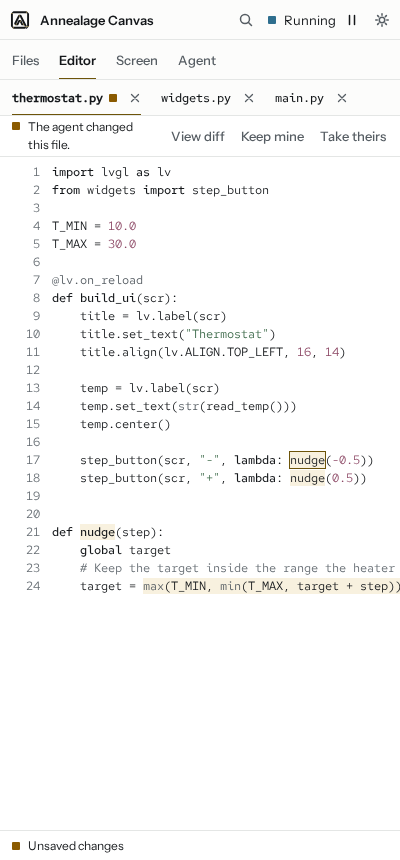
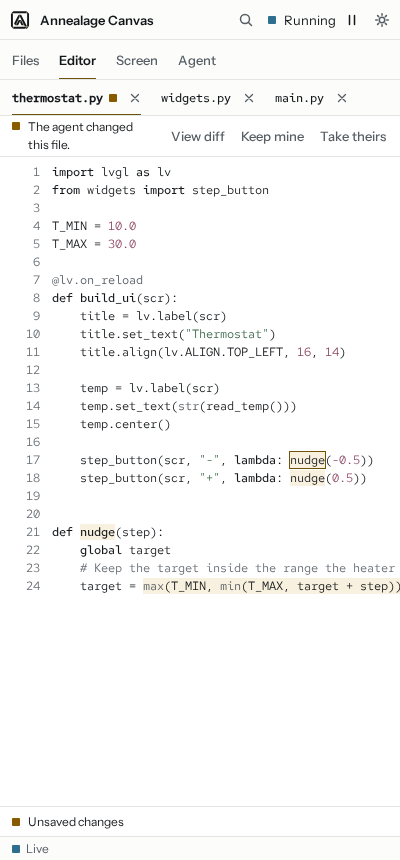
Keep a compact status bar on phones: connection and approval alert

Changed region(s): [[0.03, 0.9372, 0.33, 0.9977]]

diff --git a/theme.css b/theme.css
@@ -1127,7 +1127,8 @@ table.props td { padding: 3px 0; font: 400 var(--fs-small)/var(--lh-ui) var(--mo
 /* -------------------------------------------------------------- status bar */
 /* <footer class="statusbar"><span class="conn" data-state="live">Live</span><span>Agent <b>Ready</b></span>
      <button class="alert">Approval needed: Write</button><span class="push">Build <span class="ok">ok</span> <b>14:32</b></span><span>Cost <b>$0.41</b></span></footer>
-   Labels in the sans, values (<b>) in mono. .push starts the right-hand group. */
+   Labels in the sans, values (<b>) in mono. .push starts the right-hand group.
+   At 900px and below only .conn and .alert remain. */
 .statusbar {
   grid-area: status;
   display: flex; align-items: center; gap: 16px; min-width: 0; height: var(--h-status); padding: 0 12px;
@@ -1854,10 +1855,16 @@ html .pj-modal {
 @media (max-width: 900px) {
   .wb, .wb:has(> .vhead), .wb[data-rail=none], .wb[data-layout], .wb[data-insp=left], .wb[data-insp=left]:has(> .vhead), .wb[data-insp=left][data-layout=agent] {
     grid-template-columns: minmax(0, 1fr);
-    grid-template-rows: var(--h-bar) 40px auto minmax(0, 1fr);
-    grid-template-areas: "title" "panes" "tabs" "main";
+    grid-template-rows: var(--h-bar) 40px auto minmax(0, 1fr) auto;
+    grid-template-areas: "title" "panes" "tabs" "main" "status";
   }
-  .wb > .statusbar, #panelBtn, .colgrip { display: none; }
+  #panelBtn, .colgrip { display: none; }
+  /* The status bar stays, compact: the connection and the approval alert (which
+     frame.js turns into a jump to the Agent tab), so a pending approval is
+     reachable from any pane. Everything else in it is dropped. */
+  .wb > .statusbar > :not(.conn, .alert) { display: none; }
+  .wb > .statusbar { gap: 12px; }
+  .wb > .statusbar .alert { margin-left: auto; min-width: 0; overflow: hidden; text-overflow: ellipsis; }
   .titlebar:has(> .tb-left) { grid-template-columns: minmax(0, 1fr) auto; gap: 8px; }
   .titlebar:has(> .tb-left):has(> .cmd) { grid-template-columns: minmax(0, 1fr) auto auto; }
   .tb-left { min-width: 0; }

diff --git a/frame.js b/frame.js
@@ -491,6 +491,12 @@
       if (t.closest("[data-panel-close]")) return setPanelOpen(false);
       var tab = t.closest("[data-tab]");
       if (tab && tabbar && tabbar.contains(tab)) activateTab(tab.getAttribute("data-tab"));
+      // The status bar's approval alert, where one pane shows at a time: show the Agent pane.
+      if (t.closest(".alert") && isNarrow()) {
+        var chat = doc.querySelector("#chat");
+        var agent = tabs.filter(function (x) { return x.target && chat && doc.querySelector(x.target) === chat; })[0];
+        if (agent) activateTab(agent.id);
+      }
     }
     var onResize = function () { schedule(); };
     var onNarrow = function () { applyTabs(); fit(); emit(); };

diff --git a/README.md b/README.md
@@ -233,7 +233,7 @@ Each component's markup is in the comment above its rules.
 - Pins: SVG `g.pin` (`.model`, `.resolved`, `.is-selected`, `.ring`), `.pindraft`, the HTML `.hpin` for a paper sheet (`.hpin.cap` on a capture, which is not paper: a wider paper edge), `.hbox` (a rectangle drawn on a capture, numbered by an `.hpin` at its corner; `aria-pressed=true` is the selected one), and the floating `form.composer`.
 - Inspector: `.inspector`, `.ihead`, `.ptabs`, `.ipane`, `.iscroll`, `.toggles`, `details.sec` and `.secbody`, `.row` with `.rhead` (`.is-selected`), `.ifoot`.
 - Timeline: `.tl` and `.ev` with `.node--msg`, `--build`, `--ev`, `--wait`, `--now`; `.ebody`, `.eh`, `.eq`, `.ed`, `.chg`, `.rp`, `.eacts`, `form.restore`, `.is-preview`. No product draws it today: Mesh's Timeline and restore are not built (Q25), so the reference pages no longer show it and a port does not add it.
-- Status bar: `.statusbar` with `.conn`, `.alert`, `.push`, `.k`, `b`, `.pv`.
+- Status bar: `.statusbar` with `.conn`, `.alert`, `.push`, `.k`, `b`, `.pv`. At 900px and below the bar stays but shows only `.conn` and `.alert` (the rest is dropped); frame.js makes a click on `.alert` open the tab whose target is `#chat`, so a pending approval is reachable from any pane. The alert's own jump to the card stays the page's.
 
 **Agent pane and settings** (annealage-ember's markup)
 - `#chat` with its header (`.agentstatus`, `.chatwho`, `.chatusage`, `.working`, `.conn`, `.hdrbtn`, `details.more`), `.chatbanner[data-kind]`, `#chatLog` (`.turn`, `.msg.user`, `.msg.assistant`, `.msg.action`, `.segments`, `.text`, `details.thinking`, `details.toolgroup`, `details.toolcard`, `pre.toolinput`, `pre.toolresult`, `.turnerrors`, `.chathistory`, `.attachthumbs`, `.contextchip`), `.side`, `.chathint`, `#chatPending` with `.permcard`, and `#chatComposer` (`.chatmodelrow`, `.attachstrip`, `.attachchip`, `#chatComposerRow`, `.attachbtn`, `#chatInput`, `.chatbtns`).

diff --git a/GUIDE.md b/GUIDE.md
@@ -49,7 +49,7 @@ Dark is graphite, not black. Ground is `#16191C`, the well is darker and the fie
 | Secondary text | `--ink-2` | labels, legends, secondary tabs |
 | Third level | `--ink-3` | placeholders, coordinates beside a name. Not on the well or on a wash. |
 | Product identity | `--temper`, `--temper-text`, `--temper-wash` | the active tab underline, the selected pin or row, the current step, the focus ring, the agent-working line |
-| Needs you | `--ember` | the Allow button of a pending approval and the status bar alert that jumps to it |
+| Needs you | `--ember` | the Allow button of a pending approval and the status bar alert that jumps to it (on a phone the status bar keeps only this alert and the connection lamp, so the approval is reachable from any tab) |
 | Good | `--quench` | ok, done, covered, connected, verified |
 | Bad | `--danger` | errors, defects, Deny, Delete |
 | Caution | `--warn` | warnings, candidates, unconfirmed |
